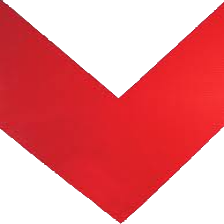
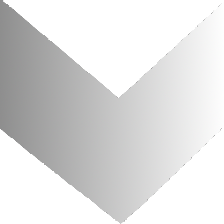
Made SimpleTargetArrow color customizable.

diff --git a/card-gui-parent/card-gui-samples/src/main/java/com/destrostudios/cardgui/samples/boardobjects/targetarrow/SimpleTargetArrowUtil.java b/card-gui-parent/card-gui-samples/src/main/java/com/destrostudios/cardgui/samples/boardobjects/targetarrow/SimpleTargetArrowUtil.java
@@ -23,6 +23,7 @@ public class SimpleTargetArrowUtil {
         Texture texture = assetManager.loadTexture(new TextureKey(settings.getTexturePath(), false));
         texture.setWrap(Texture.WrapMode.Repeat);
         material.setTexture("ColorMap", texture);
+        material.setColor("Color", settings.getColor());
         material.getAdditionalRenderState().setBlendMode(RenderState.BlendMode.Alpha);
         material.getAdditionalRenderState().setFaceCullMode(RenderState.FaceCullMode.Off);
         geometry.setMaterial(material);

diff --git a/card-gui-parent/card-gui-samples/src/main/java/com/destrostudios/cardgui/samples/boardobjects/targetarrow/SimpleTargetArrowSettings.java b/card-gui-parent/card-gui-samples/src/main/java/com/destrostudios/cardgui/samples/boardobjects/targetarrow/SimpleTargetArrowSettings.java
@@ -1,5 +1,6 @@
 package com.destrostudios.cardgui.samples.boardobjects.targetarrow;
 
+import com.jme3.math.ColorRGBA;
 import lombok.*;
 
 @NoArgsConstructor
@@ -16,5 +17,7 @@ public class SimpleTargetArrowSettings {
     private float arcHeight = 0.25f;
     @Builder.Default
     private String texturePath = "images/target_arrow.png";
+    @Builder.Default
+    private ColorRGBA color = ColorRGBA.Red;
 
 }
